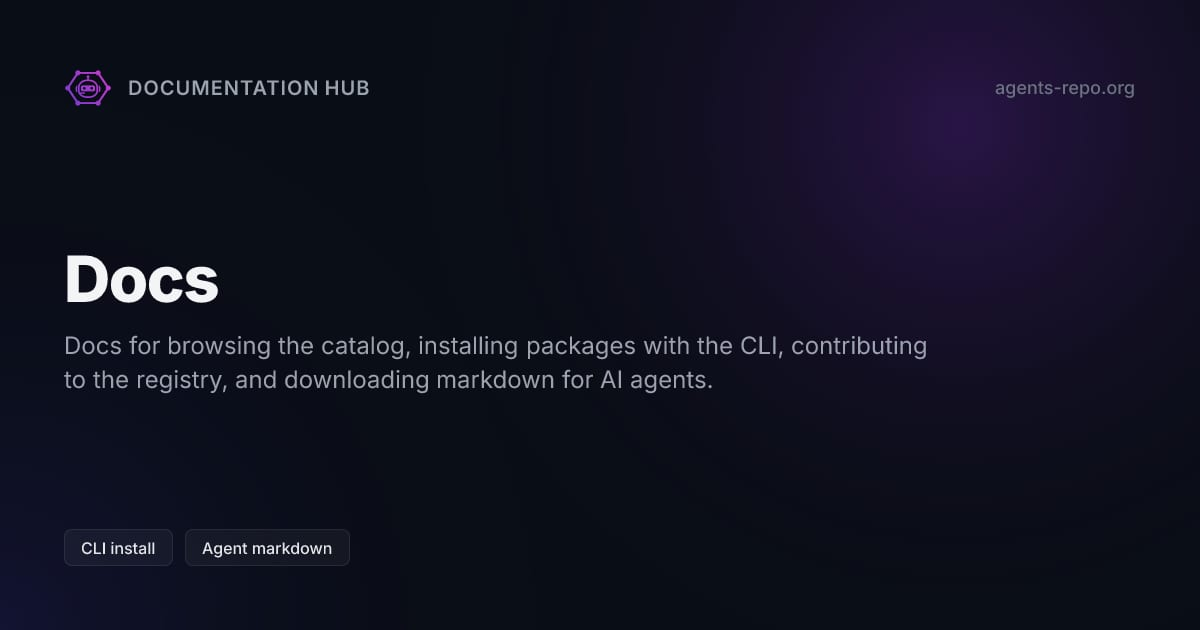
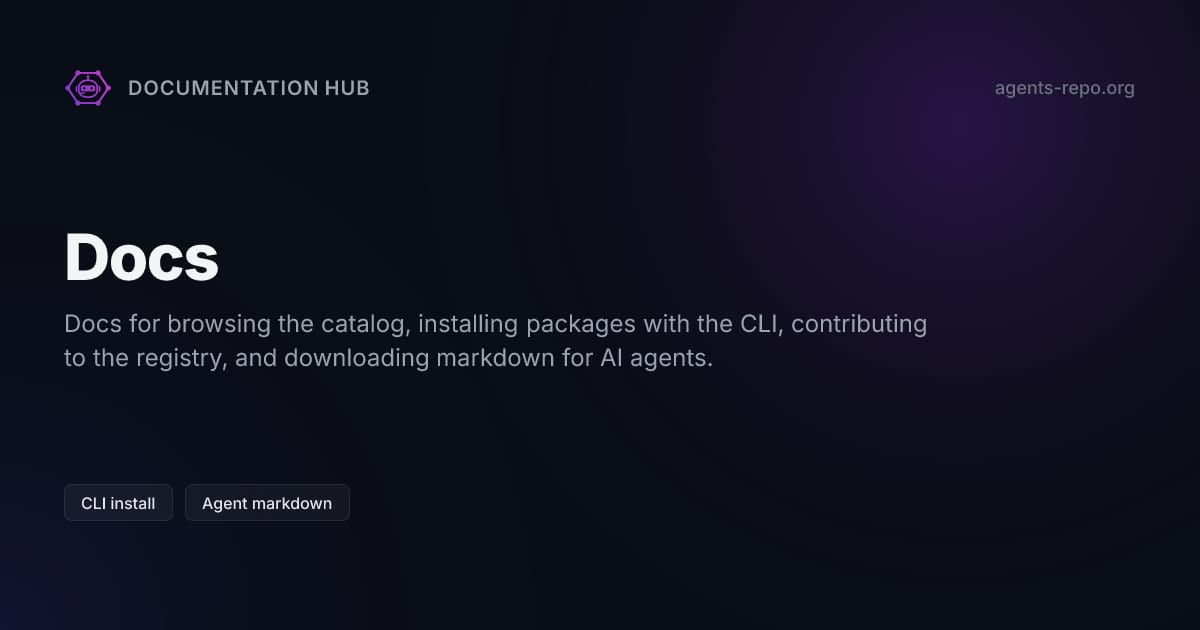
chore: home marketing title and OG card safe zones (#312)
Lengthen localized home page titles for SERP and social while keeping short
route labels for announcements. Add OG layout safe-zone padding and refresh
page JPEGs; document dev vs production SEO auditing in docs/seo.md.

Changed region(s): [[0.0308, 0.3619, 0.7708, 0.6333], [0.0617, 0.7841, 0.2775, 0.9048]]

diff --git a/src/modules/site/application/accessibility/sitePageMeta.test.ts b/src/modules/site/application/accessibility/sitePageMeta.test.ts
@@ -5,7 +5,10 @@ import { getSitePageMeta } from './sitePageMeta'
 
 describe('getSitePageMeta', () => {
   it('returns meta for known routes', () => {
-    expect(getSitePageMeta(siteRoutes.home).title).toBe('Home')
+    expect(getSitePageMeta(siteRoutes.home).title).toBe(
+      'Discover Agents and Flows in Our Open Registry',
+    )
+    expect(getSitePageMeta(siteRoutes.home).routeLabel).toBe('Home')
     expect(getSitePageMeta(siteRoutes.packages).title).toBe('Packages')
     expect(getSitePageMeta(siteRoutes.about).title).toBe('About')
     expect(getSitePageMeta(siteRoutes.community).title).toBe('Community')

diff --git a/src/modules/site/application/accessibility/useDocumentTitle.test.ts b/src/modules/site/application/accessibility/useDocumentTitle.test.ts
@@ -3,7 +3,9 @@ import { formatDocumentTitle } from './useDocumentTitle'
 
 describe('formatDocumentTitle', () => {
   it('appends the site name to the page title', () => {
-    expect(formatDocumentTitle('Home')).toBe('Home — Agents Repo')
+    expect(formatDocumentTitle('Discover Agents and Flows in Our Open Registry')).toBe(
+      'Discover Agents and Flows in Our Open Registry — Agents Repo',
+    )
     expect(formatDocumentTitle('Accessibility')).toBe('Accessibility — Agents Repo')
   })
 })

diff --git a/docs/seo.md b/docs/seo.md
@@ -106,6 +106,7 @@ These patterns already help SEO and must stay in place:
 | Twitter large image card | `twitter:card=summary_large_image` |
 | Twitter site handle | `twitter:site` from the X catalog URL (`@AgentsRepo`) |
 | Meta description (~150–160 chars) | `siteSeoMeta` per route |
+| Page `title` vs `routeLabel` | Locale `seo.json`: marketing `title`; short `routeLabel` |
 | Package detail social description | `getPackageDetailShareSeoDescription` (og/twitter only) |
 | `robots.txt` allows crawl + sitemap | Generated by `vite-plugin-sitemap` in `vite.config.ts` |
 | Sitemap with canonical URLs only | Generated by `vite-plugin-sitemap` in `vite.config.ts` |
@@ -172,6 +173,26 @@ After editing **pages** templates, run `npm run og:generate`, commit all JPEGs a
 fingerprint files, and smoke-test unfurls (X, LinkedIn, Slack). Keep each file well
 under 300 KiB (`scripts/og/constants.mjs` enforces a check-time limit). Catalog
 detail cards refresh on the next successful site deploy after registry catalog changes.
+
+**Safe zone:** Route card layouts in `scripts/og/route-card-layout.mjs` use
+`ogCardSafeZone` in `scripts/og/constants.mjs` — extra bottom padding (~45px above
+the canvas edge) so footer pills are less likely to be cropped on X
+`summary_large_image` cards. Keep new artwork inside the same margins.
+
+## Auditing dev vs production
+
+Third-party SEO scanners sometimes report issues that do not match what GitHub Pages
+ships:
+
+| Signal | Dev (`npm run dev`, root `index.html`) | Production (`npm run build:pages` → `dist/`) |
+| --- | --- | --- |
+| `<title>` / `og:*` | Vite shell until navigation | Per-route `dist/**/index.html` head injection |
+| `<h1>` | Empty `#root` until hydrate | `<noscript>` + SPA `<main>` each expose one `<h1>` |
+| `og:description` length | Matches `/` after load | Home ~131 chars; within ~150–160 meta target |
+
+When validating findings, prefer **`dist/index.html`** (home) or the live site over the
+dev shell. Tools that do not execute JavaScript and ignore `<noscript>` may still flag
+“missing H1” on SPAs; that is expected unless you enable JS rendering in the crawler.
 
 Contributor workflow and third-party build-tool licenses are documented in
 [development.md](development.md#open-graph-image-generation).
